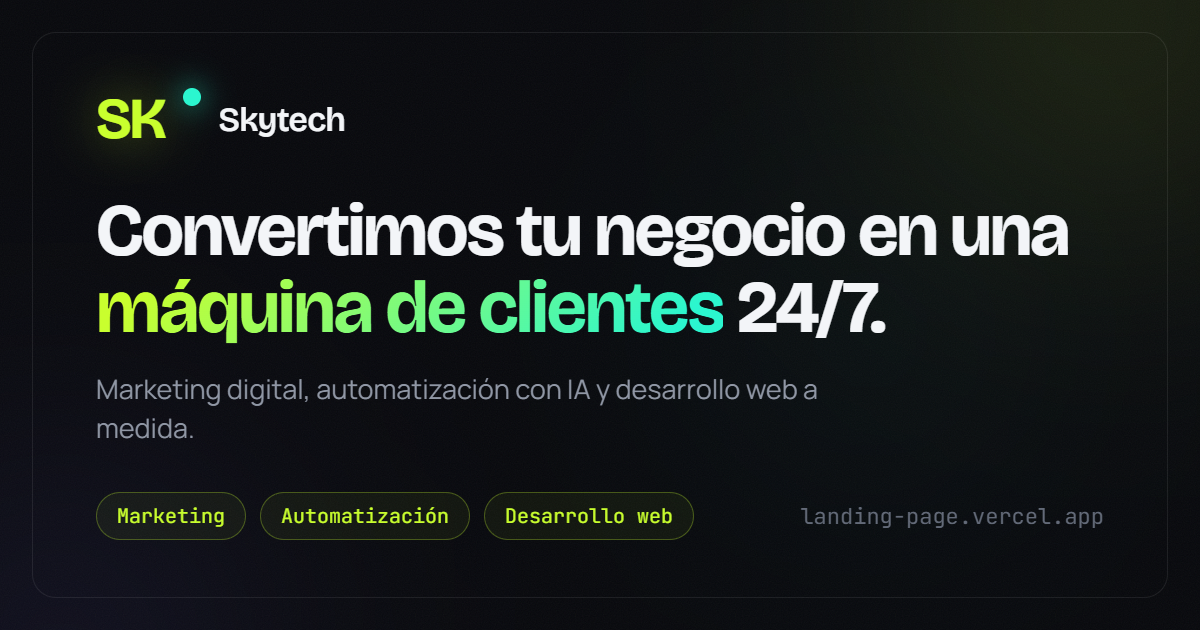
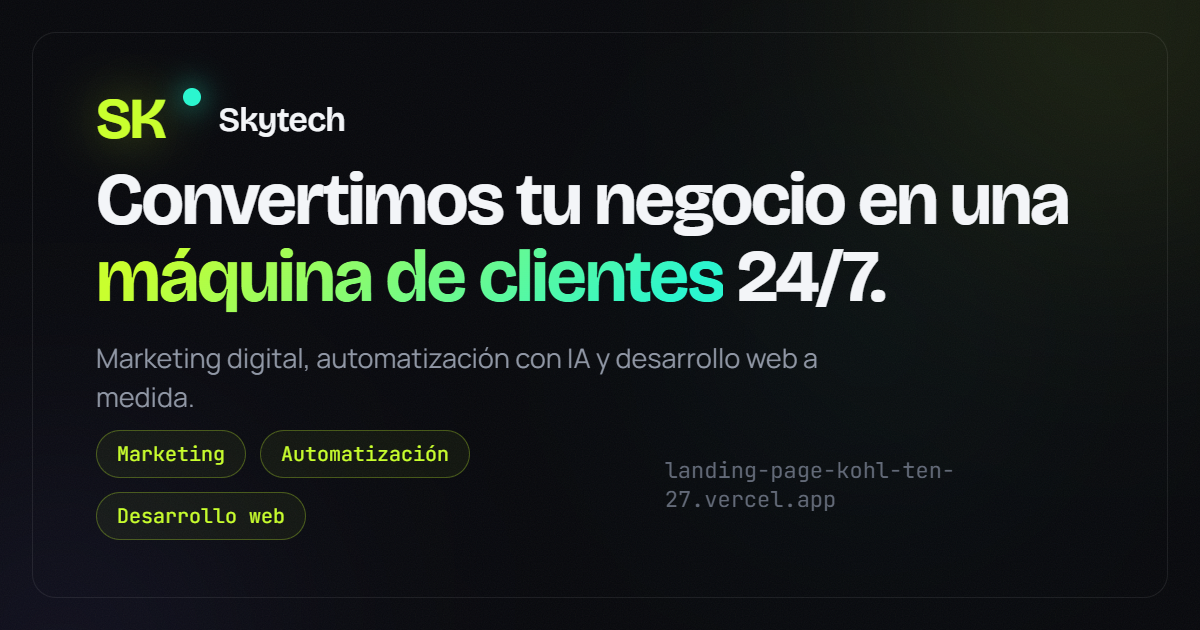
SEO: usar URL de produccion real y regenerar og.png

diff --git a/index.html b/index.html
@@ -13,16 +13,16 @@
 <meta name="author" content="Skytech" />
 <meta name="robots" content="index, follow" />
 <meta name="theme-color" content="#07080c" />
-<link rel="canonical" href="https://landing-page.vercel.app/" />
+<link rel="canonical" href="https://landing-page-kohl-ten-27.vercel.app/" />
 
 <!-- Open Graph (WhatsApp, Facebook, LinkedIn) -->
 <meta property="og:type" content="website" />
 <meta property="og:site_name" content="Skytech" />
 <meta property="og:locale" content="es_AR" />
-<meta property="og:url" content="https://landing-page.vercel.app/" />
+<meta property="og:url" content="https://landing-page-kohl-ten-27.vercel.app/" />
 <meta property="og:title" content="Skytech — Marketing Digital, Automatización & Desarrollo Web" />
 <meta property="og:description" content="Diseñamos sistemas que atraen clientes y trabajan por vos 24/7. Marketing digital, automatización con IA y desarrollo web a medida." />
-<meta property="og:image" content="https://landing-page.vercel.app/og.png" />
+<meta property="og:image" content="https://landing-page-kohl-ten-27.vercel.app/og.png" />
 <meta property="og:image:width" content="1200" />
 <meta property="og:image:height" content="630" />
 <meta property="og:image:alt" content="Skytech — máquina de clientes que trabaja 24/7" />
@@ -31,7 +31,7 @@
 <meta name="twitter:card" content="summary_large_image" />
 <meta name="twitter:title" content="Skytech — Marketing Digital, Automatización & Desarrollo Web" />
 <meta name="twitter:description" content="Diseñamos sistemas que atraen clientes y trabajan por vos 24/7. Marketing digital, automatización con IA y desarrollo web a medida." />
-<meta name="twitter:image" content="https://landing-page.vercel.app/og.png" />
+<meta name="twitter:image" content="https://landing-page-kohl-ten-27.vercel.app/og.png" />
 
 <!-- Favicons / íconos -->
 <link rel="icon" href="/favicon.svg" type="image/svg+xml" />
@@ -46,9 +46,9 @@
   "@type": "ProfessionalService",
   "name": "Skytech",
   "description": "Agencia de marketing digital, automatización con IA y desarrollo web.",
-  "url": "https://landing-page.vercel.app/",
-  "image": "https://landing-page.vercel.app/og.png",
-  "logo": "https://landing-page.vercel.app/icon-512.png",
+  "url": "https://landing-page-kohl-ten-27.vercel.app/",
+  "image": "https://landing-page-kohl-ten-27.vercel.app/og.png",
+  "logo": "https://landing-page-kohl-ten-27.vercel.app/icon-512.png",
   "telephone": "+5493834208776",
   "priceRange": "$$",
   "areaServed": "AR",
